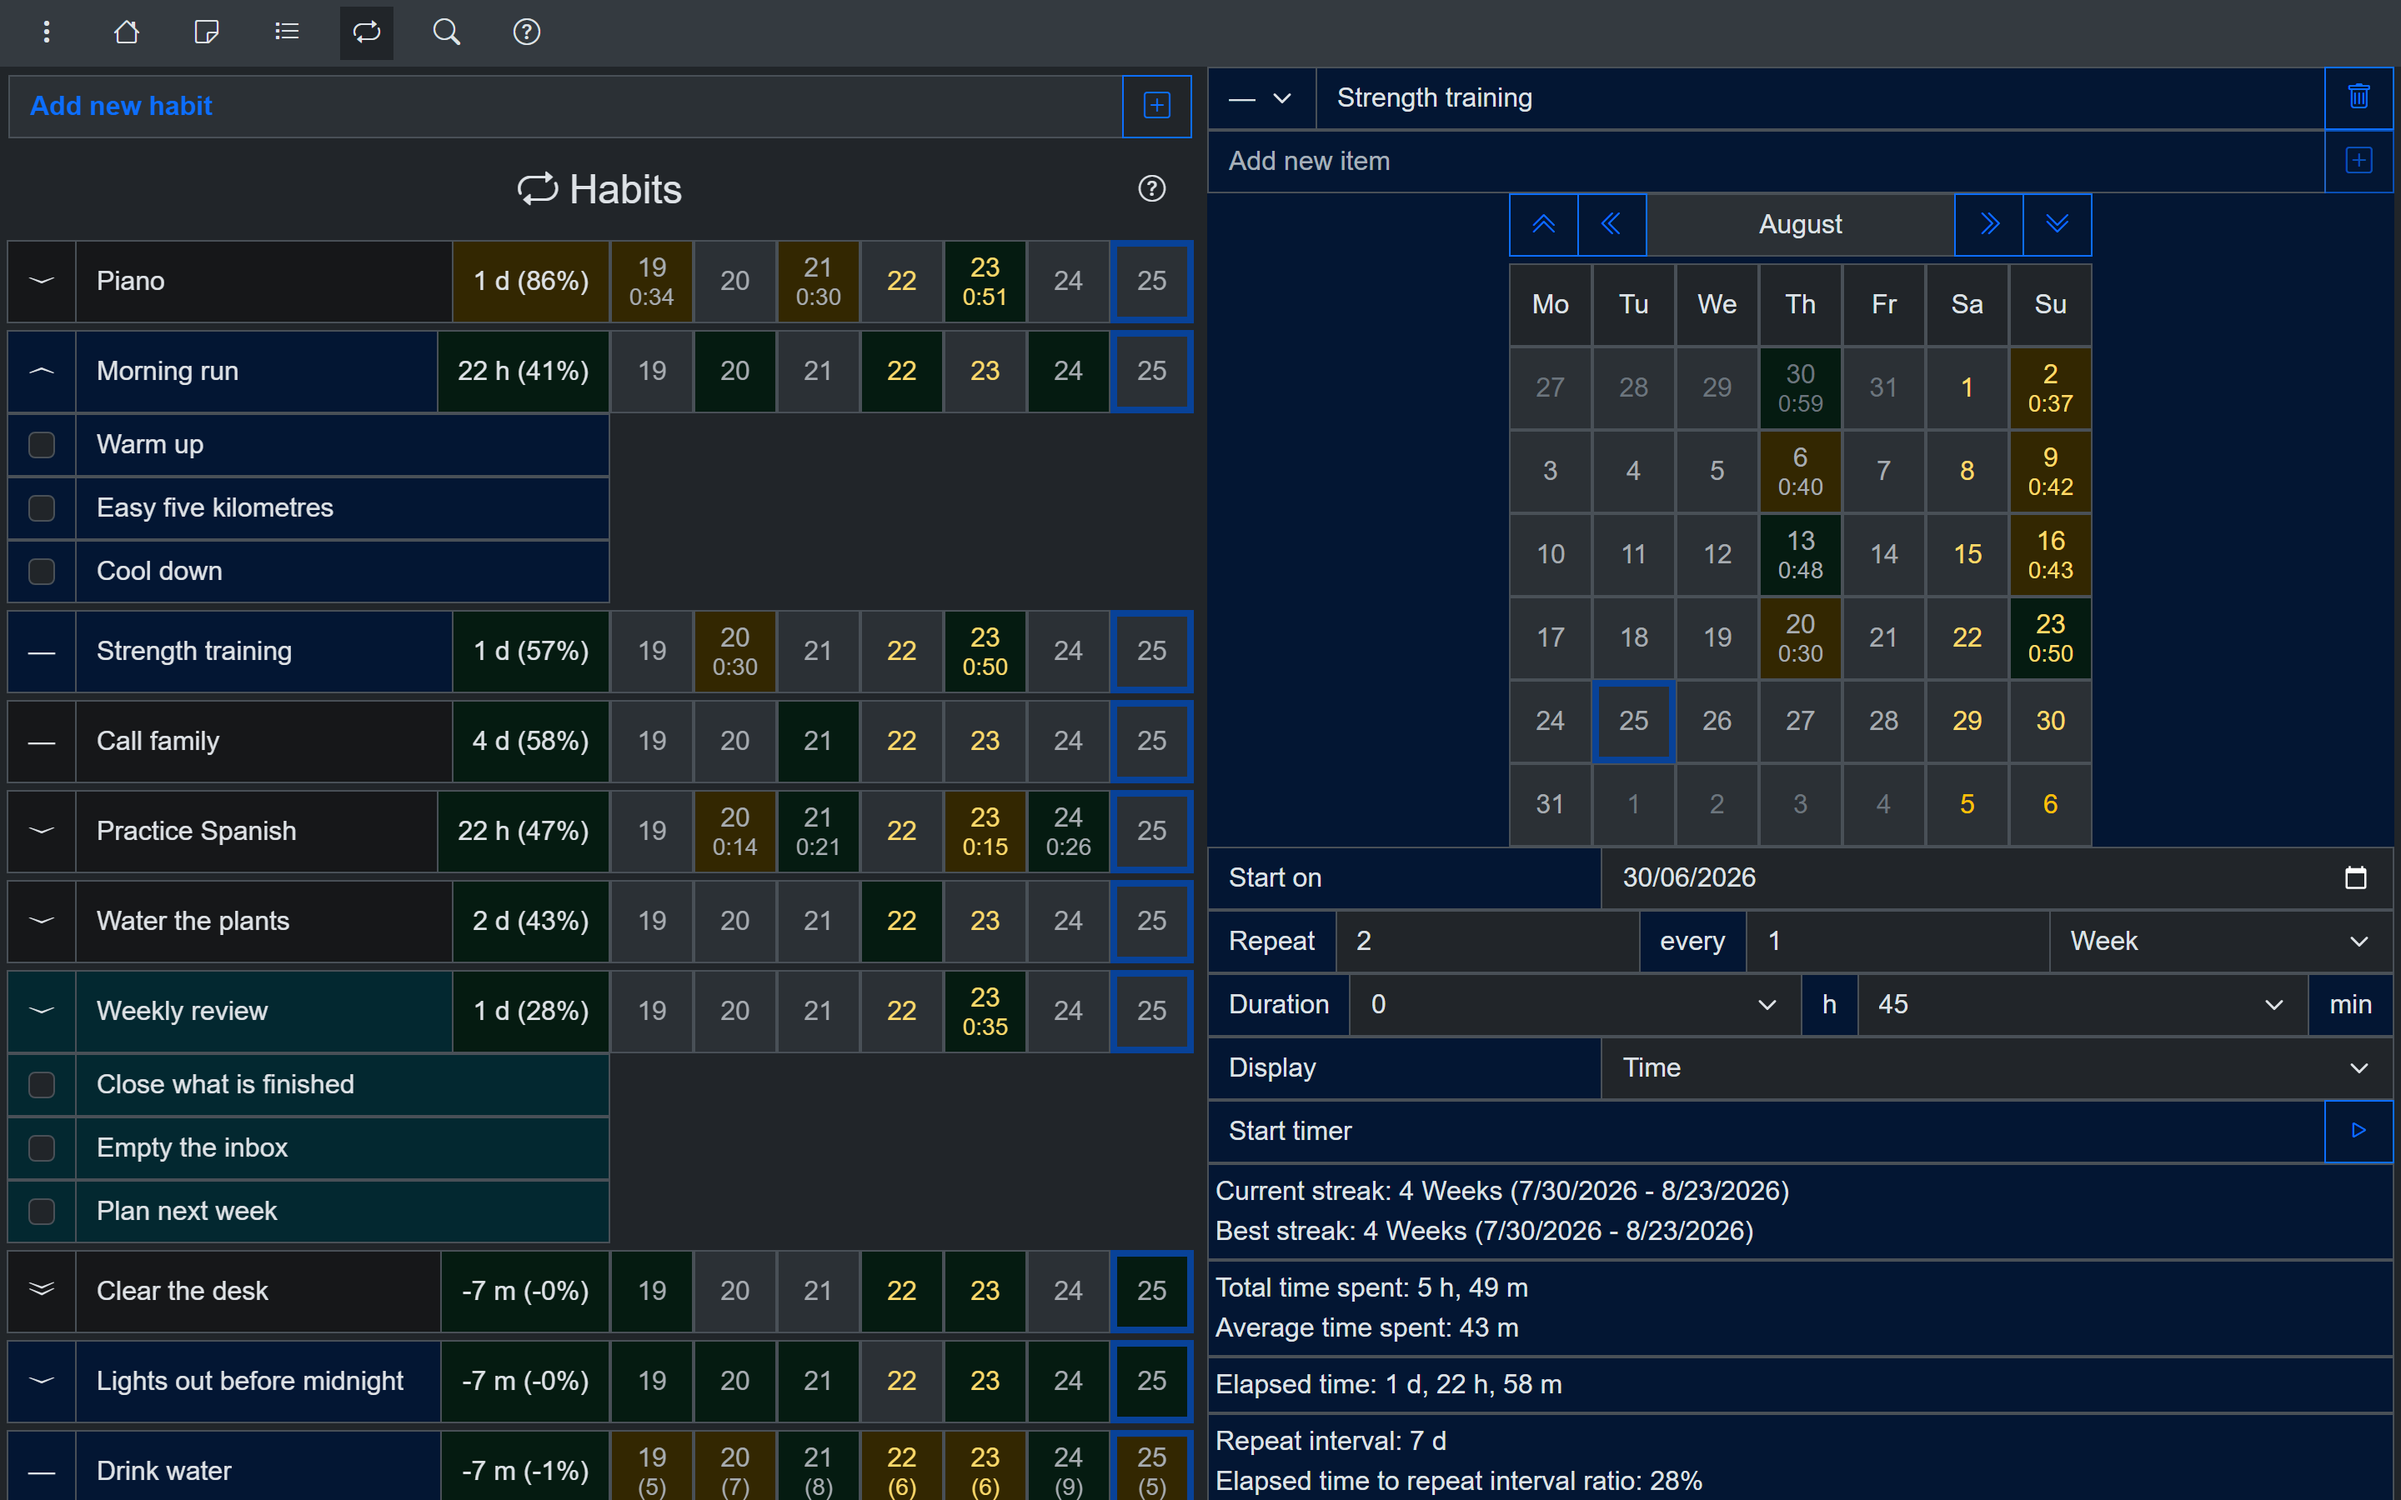
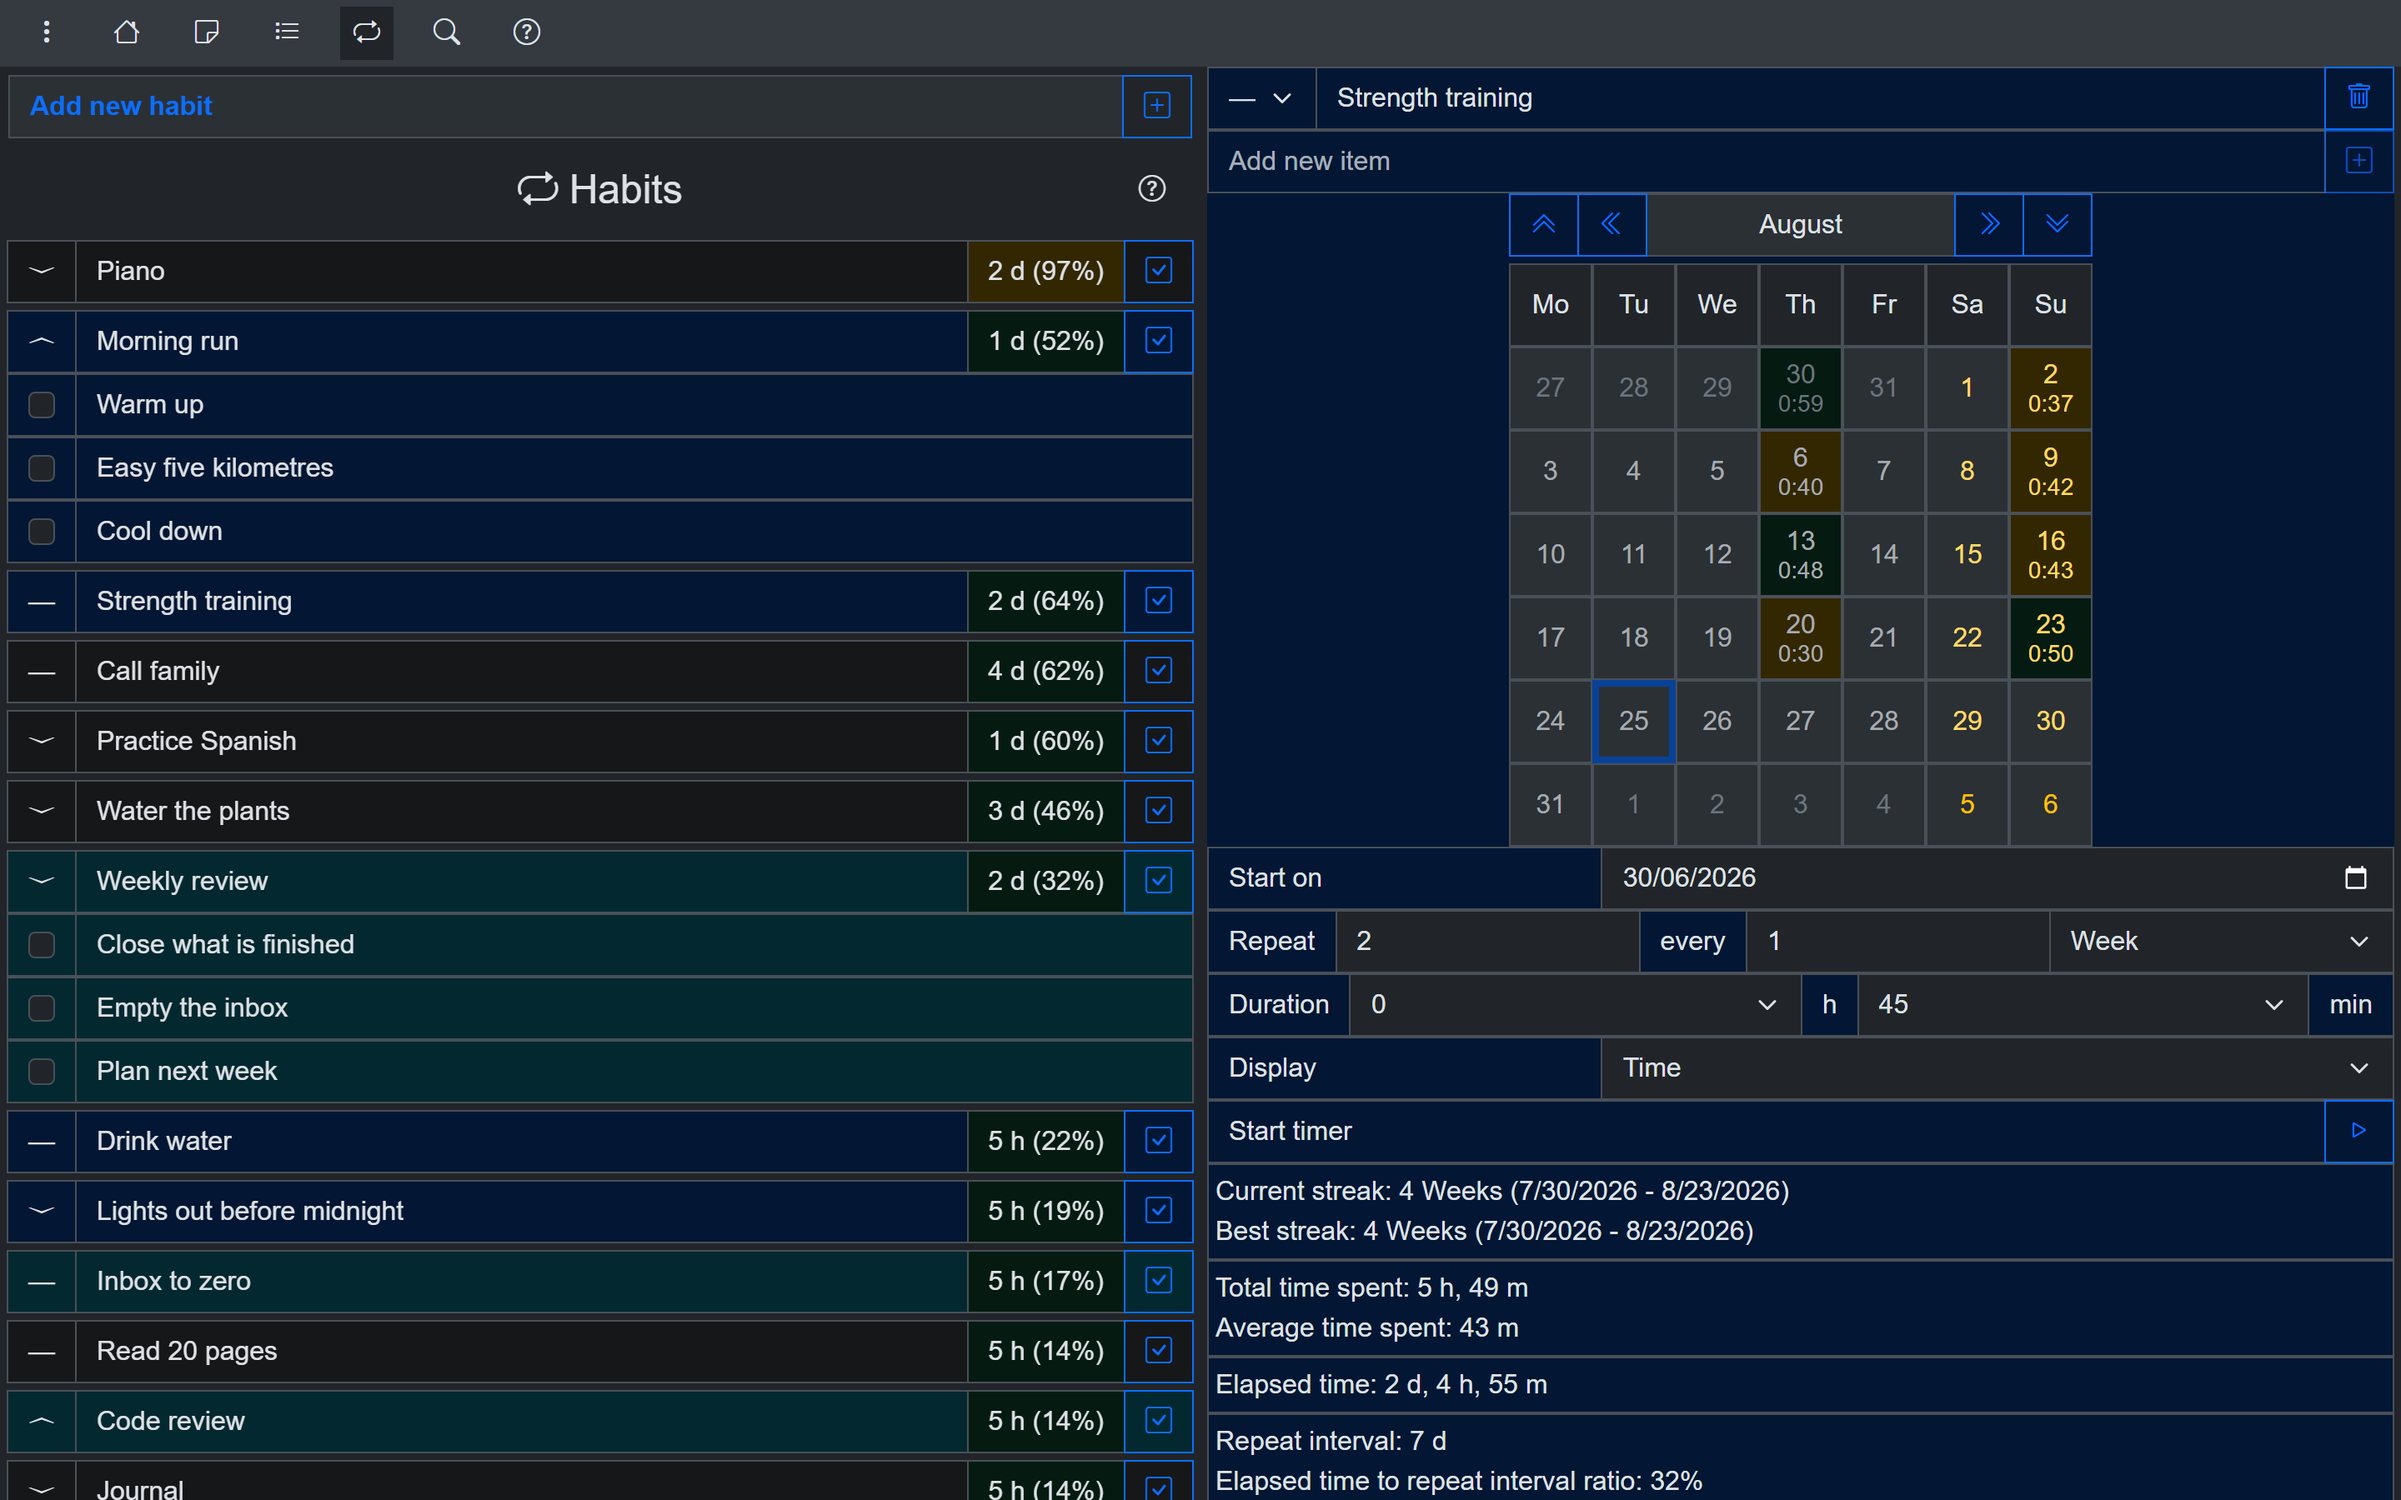
updated screenshots

Changed region(s): [[0.0, 0.1556, 0.5, 1.0], [0.5938, 0.9022, 0.6562, 0.9333]]

diff --git a/OpenHabitTracker.EndToEndTests/Screenshot/StoreScreenshotTests.cs b/OpenHabitTracker.EndToEndTests/Screenshot/StoreScreenshotTests.cs
@@ -353,6 +353,25 @@ public class StoreScreenshotTests : PlaywrightTest
         await page.WaitForTimeoutAsync(750);
     }
 
+    // The six section headers are the only buttons in the sidebar carrying aria-expanded, and each
+    // label is unique, so the pair identifies one section without depending on their order.
+    // Do not compare the attribute against "true": Blazor renders a bool attribute value as an empty
+    // string, or omits the attribute entirely, depending on how the expression is typed. Anything
+    // that is not an explicit false counts as open, and a missing header means already folded.
+    private static async Task FoldSectionAsync(IPage page, string label)
+    {
+        ILocator header = page.Locator("#sidebar-container button[aria-expanded]")
+            .Filter(new LocatorFilterOptions { HasTextString = label });
+
+        if (await header.CountAsync() == 0)
+            return;
+
+        string? expanded = await header.GetAttributeAsync("aria-expanded");
+
+        if (expanded is null || !expanded.Equals("false", StringComparison.OrdinalIgnoreCase))
+            await header.ClickAsync();
+    }
+
     private static async Task SetFilterDisplayAsync(IPage page, string value)
     {
         await page.Locator("select[aria-label='Display category filter as']").SelectOptionAsync(value);
@@ -365,6 +384,10 @@ public class StoreScreenshotTests : PlaywrightTest
         {
             await OpenSettingsSidebarAsync(page);
             await SetDetailBlocksAsync(page, on: false);
+
+            // The small calendar runs the opposite way to the six, so the pair differs in the list
+            // behind the detail as well as in the detail itself.
+            await SetToggleAsync(page, "ShowSmallCalendar", true);
             await page.Locator("#closeSidebar").ClickAsync();
 
             await page.Locator("[data-main-step-5]").ClickAsync(); // habits
@@ -376,6 +399,7 @@ public class StoreScreenshotTests : PlaywrightTest
         {
             await OpenSettingsSidebarAsync(page);
             await SetDetailBlocksAsync(page, on: true);
+            await SetToggleAsync(page, "ShowSmallCalendar", false);
             await page.Locator("#closeSidebar").ClickAsync();
 
             // The month calendar is the block that proves the pair, so wait for it rather than for
@@ -387,6 +411,11 @@ public class StoreScreenshotTests : PlaywrightTest
         {
             await page.Locator("[data-habits-step-11]").ClickAsync(); // close the habit, the list is the subject
             await OpenSettingsSidebarAsync(page);
+
+            // Put the day strips back, or the previous scene's setting leaks into this shot and
+            // every one after it. Only the habit detail pair is meant to differ on this.
+            await SetToggleAsync(page, "ShowSmallCalendar", true);
+
             await SetThemeAsync(page, "default");
             await Assertions.Expect(page.Locator("[data-habits-step-2]").First).ToBeVisibleAsync();
         }),
@@ -414,6 +443,12 @@ public class StoreScreenshotTests : PlaywrightTest
 
             await page.Locator("[data-main-step-6]").ClickAsync();
             await Assertions.Expect(page.Locator("[data-search-step-1]")).ToBeVisibleAsync();
+
+            // Fold two sections so this differs from the check box shot in more than the widgets,
+            // and so the folding is itself visible. This is the last scene, so nothing inherits it.
+            await FoldSectionAsync(page, "Search");
+            await FoldSectionAsync(page, "Filter by date");
+            await Assertions.Expect(page.Locator("[data-search-step-1]")).Not.ToBeVisibleAsync();
         })
     ];
 

diff --git a/OpenHabitTracker.EndToEndTests/Screenshot/SeedData.cs b/OpenHabitTracker.EndToEndTests/Screenshot/SeedData.cs
@@ -32,15 +32,23 @@ public static class SeedData
         return (int)(hash % (ulong)modulus);
     }
 
+    // A completion is never allowed into the future. The app itself refuses to record one, and a
+    // habit whose last completion is ahead of the clock renders a negative elapsed time in the list
+    // - "-7 m (-1%)" - which is how this was found. Only the day-zero entry can overshoot: it starts
+    // in the morning and a long session can still be running when the capture takes the shot, so
+    // that session is pulled back to finish shortly before the run.
+    private static DateTime EndBeforeNow(DateTime start, int minutes, double day, int salt) =>
+        start.AddMinutes(minutes) <= Now ? start : Now.AddMinutes(-(5 + Spread(day, salt, 25) + minutes));
+
     private static object[] Times(int targetMinutes, int targetQuantity, double[] daysAgo) =>
         daysAgo.Select(day =>
         {
-            DateTime start = Now.Date.AddDays(-day)
-                .AddHours(6 + Spread(day, 3, 4))
-                .AddMinutes(5 * Spread(day, 7, 12));
-
             int minutes = Math.Max(5, targetMinutes - targetMinutes / 3 + Spread(day, 5, targetMinutes * 2 / 3 + 1));
             int quantity = targetQuantity == 1 ? 1 : Math.Max(1, targetQuantity - 3 + Spread(day, 11, 5));
+
+            DateTime start = EndBeforeNow(Now.Date.AddDays(-day)
+                .AddHours(6 + Spread(day, 3, 4))
+                .AddMinutes(5 * Spread(day, 7, 12)), minutes, day, 29);
 
             return (object)new
             {
@@ -70,8 +78,11 @@ public static class SeedData
         int targetMinutes = (int)TimeSpan.Parse(duration).TotalMinutes;
         double day = completedDaysAgo ?? 0;
 
-        DateTime start = Now.Date.AddDays(-day).AddHours(6 + Spread(day, 13, 4)).AddMinutes(5 * Spread(day, 19, 12));
         int minutes = Math.Max(5, targetMinutes - targetMinutes / 3 + Spread(day, 23, targetMinutes * 2 / 3 + 1));
+
+        DateTime start = EndBeforeNow(
+            Now.Date.AddDays(-day).AddHours(6 + Spread(day, 13, 4)).AddMinutes(5 * Spread(day, 19, 12)),
+            minutes, day, 37);
 
         return new
         {
